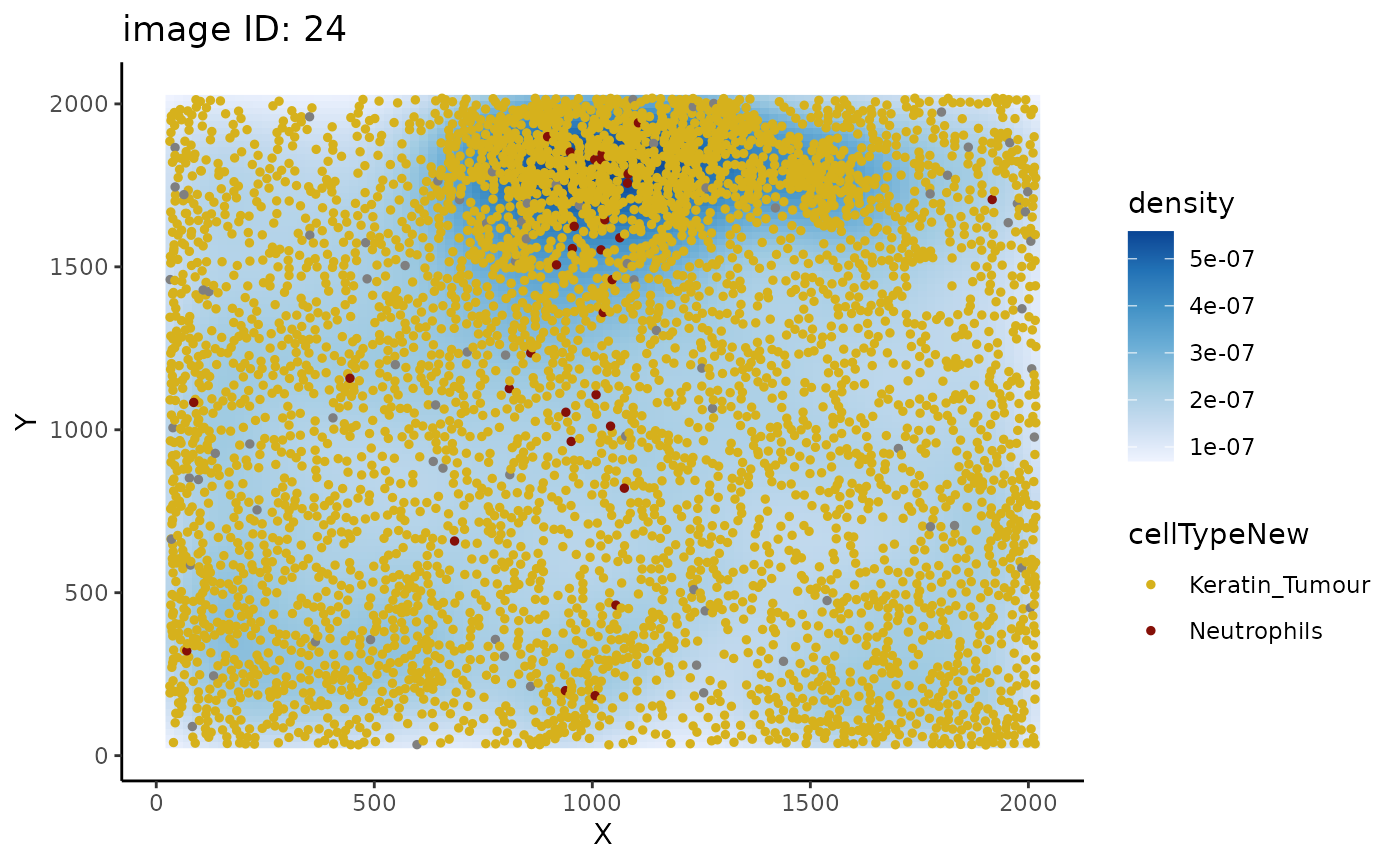
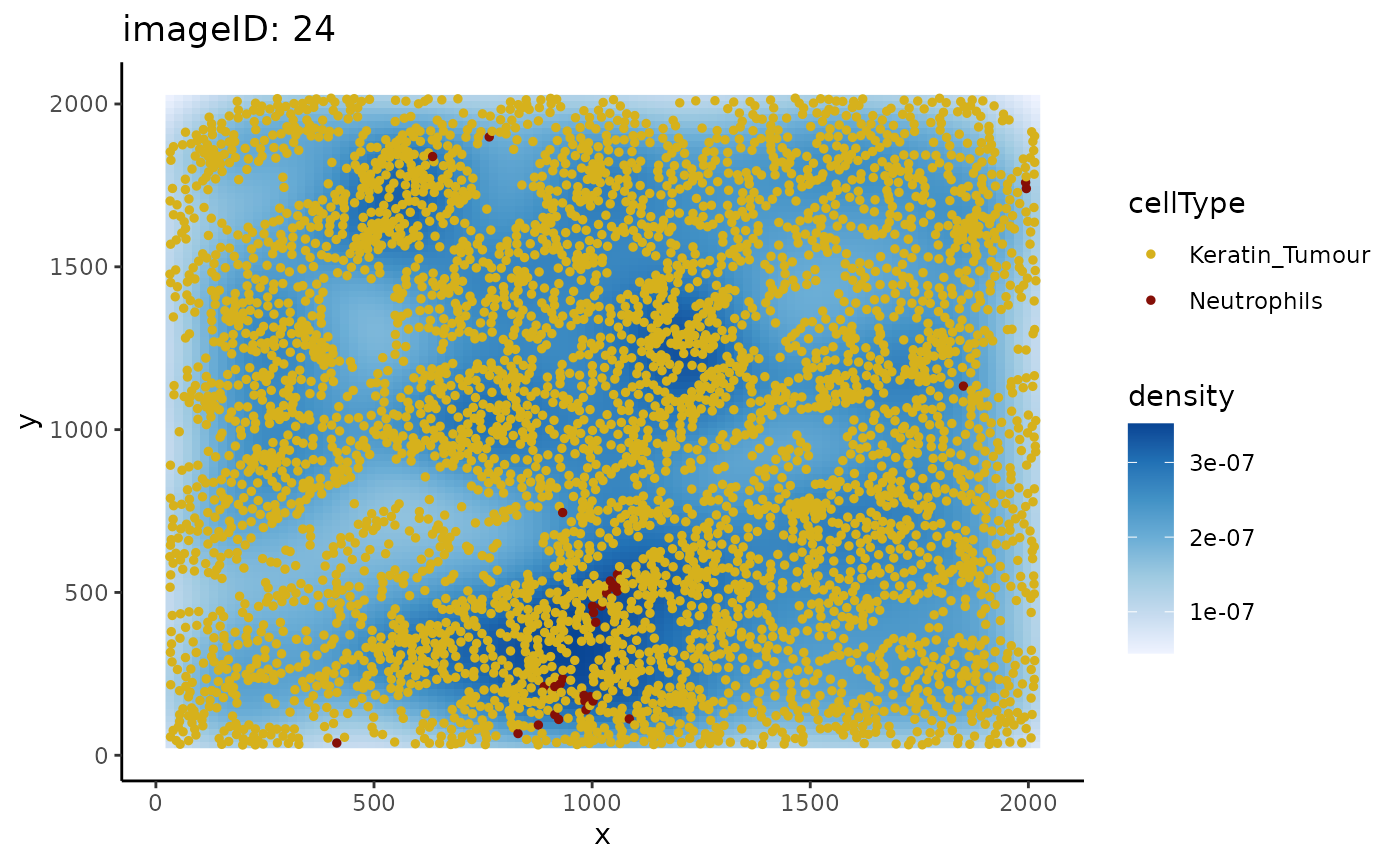
Deploying to gh-pages from @ SydneyBioX/spicyR@1aa99cd54f0e5a88818026c3a04a69bd64c3d3c9 🚀

diff --git a/articles/spicyR.html b/articles/spicyR.html
@@ -455,39 +455,14 @@ inhomogeneity.</p>
 <span></span>
 <span><span class="va">pairwiseAssoc</span><span class="op">[[</span><span class="st">"Keratin_Tumour__Neutrophils"</span><span class="op">]</span><span class="op">]</span></span>
 <span><span class="co">#&gt; [1] 0.9024836</span></span></code></pre></div>
+<p>We can use the <code>plotImage</code> function to plot any pair of
+cell types for a specific image and visually inspect cellular
+relationships.</p>
 <div class="sourceCode" id="cb16"><pre class="downlit sourceCode r">
-<code class="sourceCode R"><span><span class="co"># obtain colData for image 24</span></span>
-<span><span class="va">cData</span> <span class="op">=</span> <span class="fu">colData</span><span class="op">(</span><span class="va">kerenSPE</span><span class="op">)</span> <span class="op">|&gt;</span> <span class="fu"><a href="https://rdrr.io/r/base/as.data.frame.html" class="external-link">as.data.frame</a></span><span class="op">(</span><span class="op">)</span> <span class="op">|&gt;</span> </span>
-<span>          <span class="fu">dplyr</span><span class="fu">::</span><span class="fu"><a href="https://dplyr.tidyverse.org/reference/filter.html" class="external-link">filter</a></span><span class="op">(</span><span class="va">imageID</span> <span class="op">==</span> <span class="st">"24"</span><span class="op">)</span></span>
-<span></span>
-<span><span class="co"># obtain cells present in image 24</span></span>
-<span><span class="va">coords</span> <span class="op">=</span> <span class="fu"><a href="https://rdrr.io/pkg/SpatialExperiment/man/SpatialExperiment-methods.html" class="external-link">spatialCoords</a></span><span class="op">(</span><span class="va">kerenSPE</span><span class="op">)</span> <span class="op">|&gt;</span> <span class="fu"><a href="https://rdrr.io/r/base/as.data.frame.html" class="external-link">as.data.frame</a></span><span class="op">(</span><span class="op">)</span></span>
-<span><span class="va">coords</span><span class="op">$</span><span class="va">cellID</span> <span class="op">=</span> <span class="fu"><a href="https://rdrr.io/r/base/colnames.html" class="external-link">rownames</a></span><span class="op">(</span><span class="va">coords</span><span class="op">)</span></span>
-<span><span class="va">coords</span> <span class="op">=</span> <span class="va">coords</span> <span class="op">|&gt;</span> <span class="fu">dplyr</span><span class="fu">::</span><span class="fu"><a href="https://dplyr.tidyverse.org/reference/filter.html" class="external-link">filter</a></span><span class="op">(</span><span class="va">cellID</span> <span class="op"><a href="https://rdrr.io/r/base/match.html" class="external-link">%in%</a></span> <span class="va">cData</span><span class="op">$</span><span class="va">CellID</span><span class="op">)</span></span>
-<span></span>
-<span><span class="va">cData</span><span class="op">$</span><span class="va">X</span> <span class="op">=</span> <span class="va">coords</span><span class="op">$</span><span class="va">x</span></span>
-<span><span class="va">cData</span><span class="op">$</span><span class="va">Y</span> <span class="op">=</span> <span class="va">coords</span><span class="op">$</span><span class="va">y</span></span>
-<span></span>
-<span><span class="va">cData</span> <span class="op">=</span> <span class="va">cData</span> <span class="op">|&gt;</span> </span>
-<span>  <span class="fu">dplyr</span><span class="fu">::</span><span class="fu"><a href="https://dplyr.tidyverse.org/reference/mutate.html" class="external-link">mutate</a></span><span class="op">(</span>cellTypeNew <span class="op">=</span> <span class="fu"><a href="https://rdrr.io/r/base/ifelse.html" class="external-link">ifelse</a></span><span class="op">(</span><span class="va">cellType</span> <span class="op"><a href="https://rdrr.io/r/base/match.html" class="external-link">%in%</a></span> <span class="fu"><a href="https://rdrr.io/r/base/c.html" class="external-link">c</a></span><span class="op">(</span><span class="st">"Keratin_Tumour"</span>, <span class="st">"Neutrophils"</span><span class="op">)</span>, </span>
-<span>                                     <span class="va">cellType</span>, <span class="st">"Other"</span><span class="op">)</span><span class="op">)</span></span>
-<span></span>
-<span> <span class="va">pal</span> <span class="op">=</span> <span class="fu"><a href="https://rdrr.io/r/stats/setNames.html" class="external-link">setNames</a></span><span class="op">(</span><span class="fu"><a href="https://rdrr.io/r/base/c.html" class="external-link">c</a></span><span class="op">(</span><span class="st">"#d6b11c"</span>, <span class="st">"#850f07"</span><span class="op">)</span>, </span>
-<span>                <span class="fu"><a href="https://rdrr.io/r/base/c.html" class="external-link">c</a></span><span class="op">(</span><span class="st">"Keratin_Tumour"</span>, <span class="st">"Neutrophils"</span><span class="op">)</span><span class="op">)</span></span>
-<span></span>
-<span><span class="fu"><a href="https://ggplot2.tidyverse.org/reference/ggplot.html" class="external-link">ggplot</a></span><span class="op">(</span><span class="op">)</span> <span class="op">+</span></span>
-<span>    <span class="fu"><a href="https://ggplot2.tidyverse.org/reference/geom_density_2d.html" class="external-link">stat_density_2d</a></span><span class="op">(</span>data <span class="op">=</span> <span class="va">cData</span>, <span class="fu"><a href="https://ggplot2.tidyverse.org/reference/aes.html" class="external-link">aes</a></span><span class="op">(</span>x <span class="op">=</span> <span class="va">X</span>, y <span class="op">=</span> <span class="va">Y</span>, fill <span class="op">=</span> <span class="fu"><a href="https://ggplot2.tidyverse.org/reference/aes_eval.html" class="external-link">after_stat</a></span><span class="op">(</span><span class="va">density</span><span class="op">)</span><span class="op">)</span>, </span>
-<span>                    geom <span class="op">=</span> <span class="st">"raster"</span>, </span>
-<span>                    contour <span class="op">=</span> <span class="cn">FALSE</span><span class="op">)</span> <span class="op">+</span></span>
-<span>    <span class="fu"><a href="https://ggplot2.tidyverse.org/reference/geom_point.html" class="external-link">geom_point</a></span><span class="op">(</span>data <span class="op">=</span> <span class="va">cData</span> <span class="op">|&gt;</span> <span class="fu"><a href="https://dplyr.tidyverse.org/reference/filter.html" class="external-link">filter</a></span><span class="op">(</span><span class="va">cellType</span> <span class="op">!=</span> <span class="st">"Other"</span><span class="op">)</span>,</span>
-<span>               <span class="fu"><a href="https://ggplot2.tidyverse.org/reference/aes.html" class="external-link">aes</a></span><span class="op">(</span>x <span class="op">=</span> <span class="va">X</span>, y <span class="op">=</span> <span class="va">Y</span>, colour <span class="op">=</span> <span class="va">cellTypeNew</span><span class="op">)</span>, size <span class="op">=</span> <span class="fl">1</span><span class="op">)</span> <span class="op">+</span></span>
-<span>    <span class="fu"><a href="https://ggplot2.tidyverse.org/reference/scale_manual.html" class="external-link">scale_color_manual</a></span><span class="op">(</span>values <span class="op">=</span> <span class="va">pal</span><span class="op">)</span> <span class="op">+</span></span>
-<span>    <span class="fu"><a href="https://ggplot2.tidyverse.org/reference/scale_brewer.html" class="external-link">scale_fill_distiller</a></span><span class="op">(</span>palette <span class="op">=</span> <span class="st">"Blues"</span>, direction <span class="op">=</span> <span class="fl">1</span><span class="op">)</span> <span class="op">+</span></span>
-<span>    <span class="fu"><a href="https://ggplot2.tidyverse.org/reference/ggtheme.html" class="external-link">theme_classic</a></span><span class="op">(</span><span class="op">)</span> <span class="op">+</span></span>
-<span>    <span class="fu"><a href="https://ggplot2.tidyverse.org/reference/labs.html" class="external-link">labs</a></span><span class="op">(</span>title <span class="op">=</span> <span class="st">"image ID: 24"</span><span class="op">)</span></span></code></pre></div>
+<code class="sourceCode R"><span><span class="fu"><a href="../reference/plotImage.html">plotImage</a></span><span class="op">(</span><span class="va">kerenSPE</span>, <span class="st">"24"</span>, from <span class="op">=</span> <span class="st">"Keratin_Tumour"</span>, to <span class="op">=</span> <span class="st">"Neutrophils"</span><span class="op">)</span></span></code></pre></div>
 <p><img src="spicyR_files/figure-html/unnamed-chunk-17-1.png" width="700"></p>
 <p>Plotting image 24 shows that the supposed co-localisation occurs due
-to the dense cluster of cells near the top of the image.</p>
+to the dense cluster of cells near the bottom of the image.</p>
 </div>
 <div class="section level2">
 <h2 id="mixed-effects-modelling">Mixed effects modelling<a class="anchor" aria-label="anchor" href="#mixed-effects-modelling"></a>
